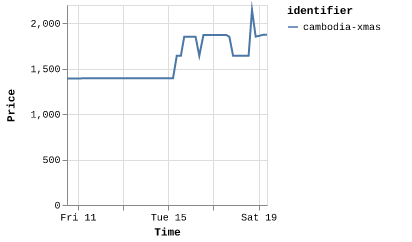
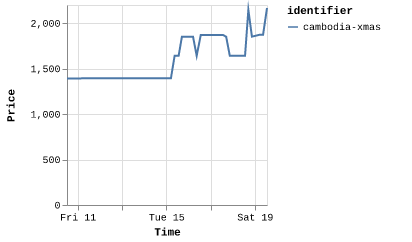
Latest scraping flights: Sat Jul 19 13:09:45 UTC 2025

diff --git a/scrapes/flights/cambodia-xmas.md b/scrapes/flights/cambodia-xmas.md
@@ -1,1 +1,1 @@
-€1,872
+€2,167
